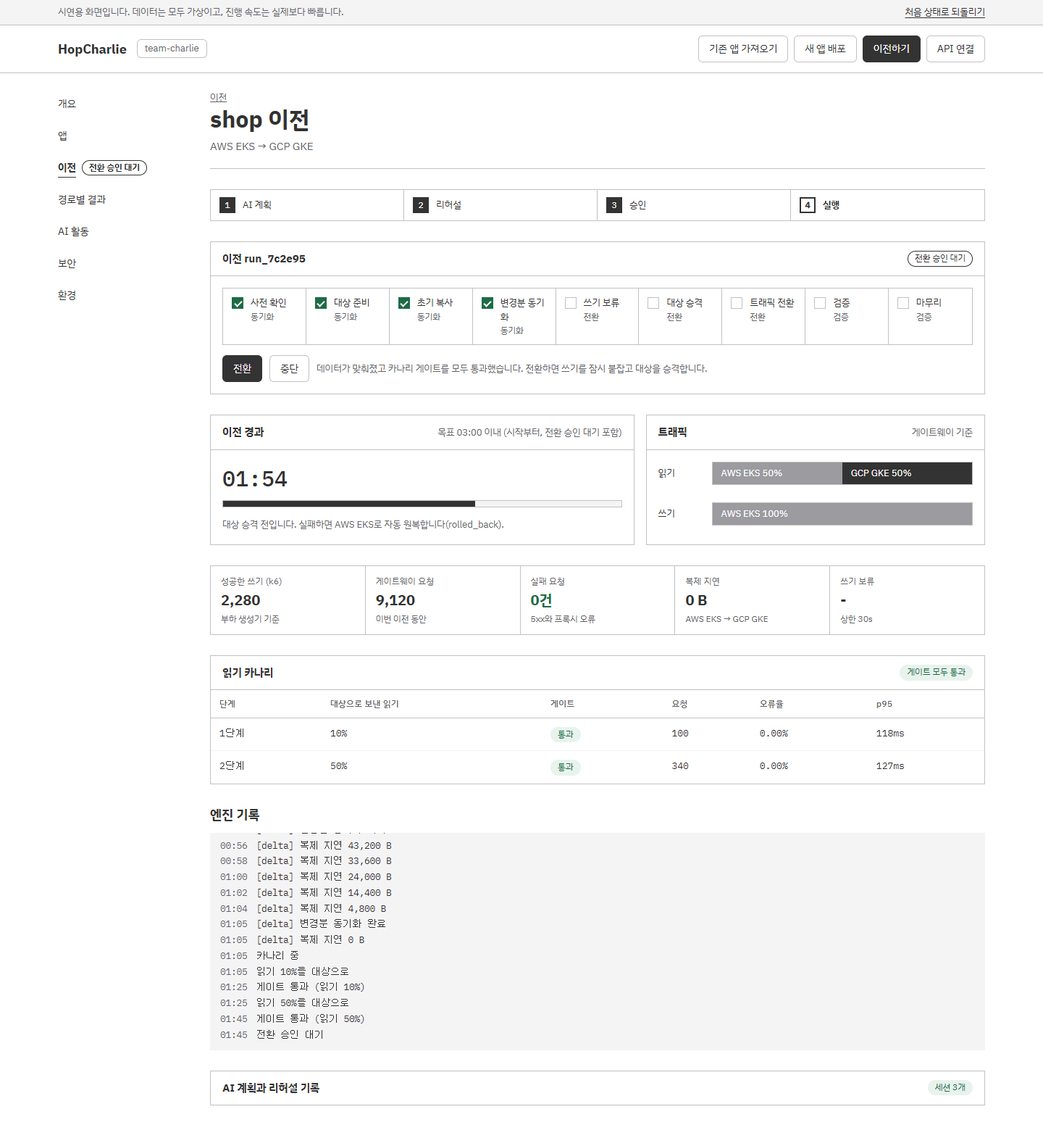
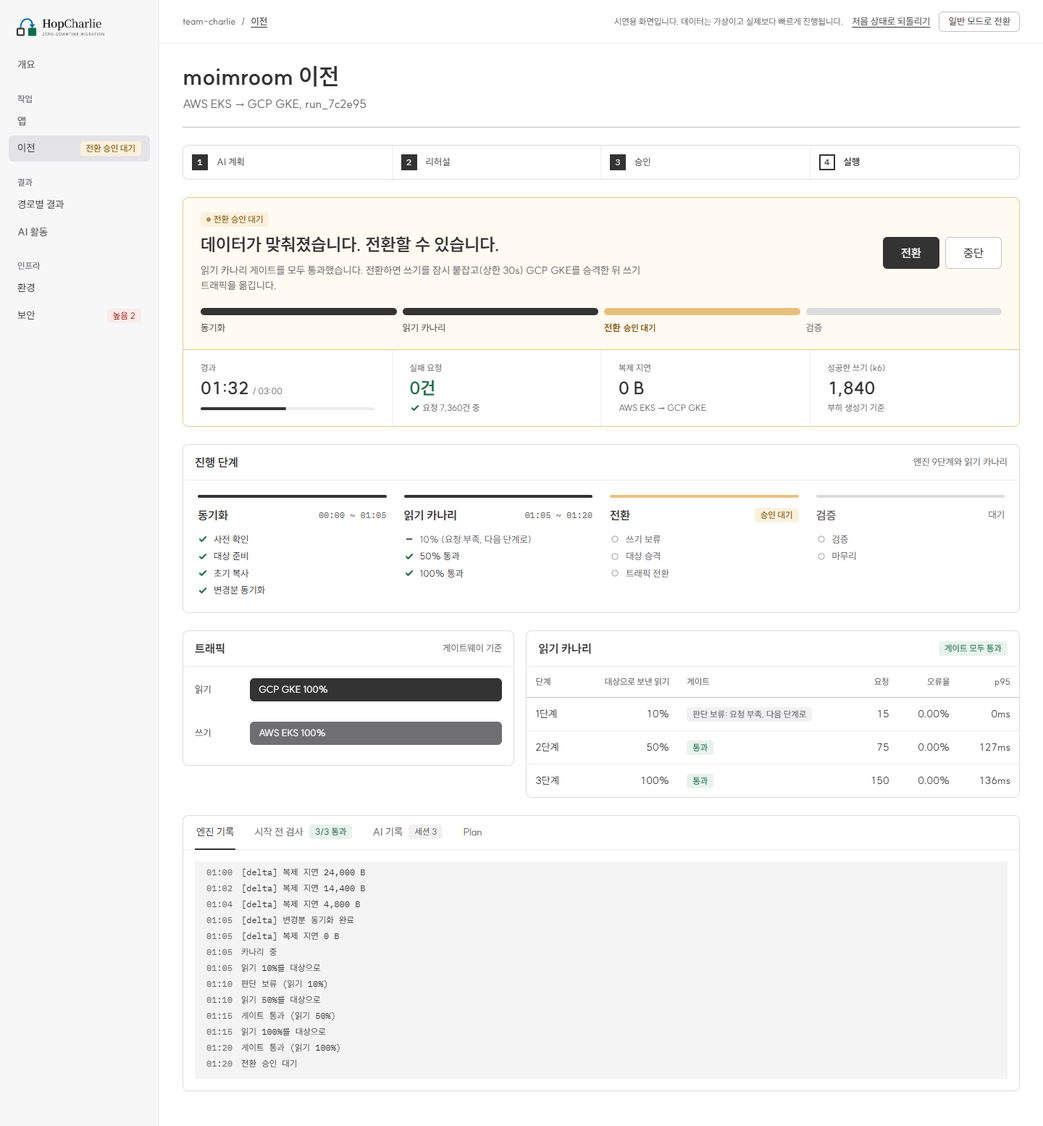
docs: README 화면과 버전 히스토리를 개편한 콘솔로 갱신 (v20~v29) (#30)
## 요약
콘솔 개편(#26~#29) 뒤의 문서 갱신입니다. 코드는 바꾸지 않았습니다.

## 바뀐 것
- **README 스크린샷**: `docs/screenshots/`의 22장을 지금 화면으로 다시 찍었습니다(데모 모드,
1440px, 전체 페이지).
  - 데모 샘플 앱이 moimroom으로 바뀌어서 `app-shop.png`는 `app-moimroom.png`로 바꿨습니다.
  - 앱 표에서 옛 화면(`docs/history/pr6/`)을 빌려 쓰던 4장은 지금 화면으로 새로 찍었습니다.
- **README 화면 설명**
  - "화면 구성"을 새로 넣었습니다: 사이드 메뉴 묶음, 메뉴 배지, 위쪽 막대, 작업 버튼 위치, 상태 색, 화면 너비.
  - 개요, 이전, 앱 상세(탭), 보안, 배포 진행 설명을 지금 화면에 맞췄습니다.
  - 맨 위에 SUIT 글꼴과 상태 색 규칙을 적었습니다.
- **README 구조와 배포 절**: 새 컴포넌트(Tabs, Skeleton, LoadError)와 화면별 스타일 파일, 광고
차단과 겹치는 클래스 이름 규칙, self-hosted runner를 더했습니다.
- **버전 히스토리**: README 표와 `docs/HISTORY.md`에 v20~v29(#20~#29)를 더했습니다. 화면이
바뀐 버전은 그 머지 커밋을 띄워 찍은 스크린샷을 `docs/history/pr<N>/`에 넣었습니다.

| 버전 | PR | 화면 |
| --- | --- | --- |
| v20 | #20 | 3장 |
| v21 | #21 | 변화 없음 |
| v22 | #22 | 1장 |
| v23 | #24 | 1장 |
| v24 | #25 | 변화 없음 |
| v25 | #23 | 실제 API만 |
| v26 | #26 | 2장 |
| v27 | #27 | 4장 |
| v28 | #28 | 2장 (넓은 화면 한 장은 2000px) |
| v29 | #29 | 변화 없음 |

## 확인
- 문서가 참조하는 이미지 경로가 모두 실제 파일이고, 새 이미지는 모두 참조됨
- 목차 링크가 GitHub 제목 규칙과 맞음

https://claude.ai/code/session_014QYzJihMxQwQggRBsrbjFt

diff --git a/README.md b/README.md
@@ -3,7 +3,8 @@
 HopCharlie 운영 콘솔입니다. 처음 열면 모드를 고릅니다. **일반 모드**는 관리자 아이디와 비밀번호로 로그인해 **실제 플랫폼 API**(`src/api`)를 읽고, **데모 모드**는 로그인 없이 **시연용 시뮬레이션**으로 같은 화면을 보여 줍니다. 모드는 화면 위쪽 버튼으로 언제든 바꿀 수 있고, 바꿔도 로그아웃되지 않습니다. 로그인은 새로고침하거나 새 탭을 열어도 세션이 끝날 때(12시간)까지 유지됩니다. `charlie login`이 보여 준 코드는 일반 모드의 **CLI 연결**(`#device`)에서 승인합니다. 시뮬레이션도 플랫폼 계약과 같은 데이터 모양(`PlanRecord`, `Run`, `RunEvent`, `AgentSession`, `AgentEvent`, `App`, `Deployment`, `DeploymentEvent`, `AppSpecValidation`)을 만듭니다.
 
 - 스택: Vite 8 + React 19 + TypeScript, 테스트는 Vitest + Testing Library
-- 디자인: SoftBank 디자인 시스템 토큰 (`src/styles/tokens.css`)
+- 디자인: SoftBank 디자인 시스템 토큰 (`src/styles/tokens.css`). 본문 글꼴은 SUIT, 코드와 ID는 IBM Plex Mono입니다.
+- 상태 색: 파랑(run)은 기계가 일하는 중, 주황(warn)은 사람이 해야 할 일, 회색은 기다림, 초록은 성공, 빨강은 실패입니다.
 
 ```bash
 npm install
@@ -37,26 +38,44 @@ npm run build      # 타입 검사 + 프로덕션 빌드
 | v17 | [#17](https://github.com/2026-Softbank-Hackathon-Charlie/frontend/pull/17) | 11/4 14:42 | 시작 전 검사의 대기 서버 설정 문장 (실제 API 모드에서만) |
 | v18 | [#18](https://github.com/2026-Softbank-Hackathon-Charlie/frontend/pull/18) | 11/4 16:01 | 승인 화면에서 전환 후 관찰과 자동 롤백 선택 (실제 API 모드에서만) |
 | v19 | [#19](https://github.com/2026-Softbank-Hackathon-Charlie/frontend/pull/19) | 11/4 16:12 | 데모 모드의 이전 대상을 moimroom으로 |
+| v20 | [#20](https://github.com/2026-Softbank-Hackathon-Charlie/frontend/pull/20) | 11/4 16:36 | 앱 시크릿 편집과 빌드 없는 재배포 |
+| v21 | [#21](https://github.com/2026-Softbank-Hackathon-Charlie/frontend/pull/21) | 11/4 16:40 | 버전 히스토리에 v8~v19 추가 (화면 변화 없음) |
+| v22 | [#22](https://github.com/2026-Softbank-Hackathon-Charlie/frontend/pull/22) | 11/4 16:56 | 읽기 카나리 7단계와 판단 보류 표시 |
+| v23 | [#24](https://github.com/2026-Softbank-Hackathon-Charlie/frontend/pull/24) | 11/4 17:35 | 읽기 카나리 기본값을 10%, 50%, 100%로 |
+| v24 | [#25](https://github.com/2026-Softbank-Hackathon-Charlie/frontend/pull/25) | 11/4 21:18 | 콘솔 게시를 self-hosted runner에서 (화면 변화 없음) |
+| v25 | [#23](https://github.com/2026-Softbank-Hackathon-Charlie/frontend/pull/23) | 11/4 21:46 | 이전 화면에 AI 실행기의 계획 세션 (실제 API 모드에서만) |
+| v26 | [#26](https://github.com/2026-Softbank-Hackathon-Charlie/frontend/pull/26) | 11/5 10:20 | 콘솔 개편 1단계: 묶음 사이드 메뉴, 상태 색, SUIT 글꼴 |
+| v27 | [#27](https://github.com/2026-Softbank-Hackathon-Charlie/frontend/pull/27) | 11/5 10:27 | 콘솔 개편 2단계: 이전 상태 카드, 앱 상세 탭, 개요 |
+| v28 | [#28](https://github.com/2026-Softbank-Hackathon-Charlie/frontend/pull/28) | 11/5 12:04 | 콘솔 마감 다듬기, 넓은 화면 정렬 |
+| v29 | [#29](https://github.com/2026-Softbank-Hackathon-Charlie/frontend/pull/29) | 11/5 12:09 | 광고 차단 확장이 앱 상세를 숨기지 않게 클래스 접두사 변경 (화면 변화 없음) |
 
 ## 화면
 
 ### 모드 선택, 로그인, CLI 연결
 처음 열면 전체 화면으로 모드를 고릅니다.
 
-- **데모 모드**: 가상 데이터로 시연합니다. 로그인하지 않습니다. 상단 배너의 "처음 상태로 되돌리기"로 시뮬레이션을 처음 상태로 돌립니다.
+- **데모 모드**: 가상 데이터로 시연합니다. 로그인하지 않습니다. 위쪽 막대의 "처음 상태로 되돌리기"로 시뮬레이션을 처음 상태로 돌립니다.
 - **일반 모드**: 실제 플랫폼 API를 읽습니다. 로그인 화면에서 관리자 아이디와 비밀번호(플랫폼 서버의 `PLATFORM_ADMINS`)를 넣습니다. 틀린 아이디나 비밀번호, 너무 잦은 시도(기다릴 초를 함께 표시), 관리자가 설정되지 않은 서버, 연결 실패를 각각 한국어로 알려 줍니다. 로그인 화면에서 데모 모드로 바로 갈 수도 있습니다.
-- **헤더**: 일반 모드에서는 로그인한 관리자 이름, "로그아웃", "데모 모드로 전환"이 있고, 데모 모드에서는 "일반 모드로 전환"이 있습니다. 모드를 바꿔도 로그아웃되지 않습니다.
-- **CLI 연결**(`#device`, 일반 모드에서만 메뉴에 보임): 터미널에서 `charlie login`을 실행하면 나오는 코드(XXXX-XXXX, 소문자나 공백을 섞어 넣어도 됨)를 입력하고 "확인"을 누르면 요청한 클라이언트, 요청 시각, 남은 시간이 나옵니다. 승인하기 전에 그 CLI에 줄 역할을 고릅니다. 기본으로 골라 둔 역할은 없고, 고르기 전에는 "승인"을 누를 수 없습니다.
+- **위쪽 막대**: 일반 모드에서는 연결한 API 주소, 로그인한 관리자 이름, "로그아웃", "데모 모드로 전환"이 있고, 데모 모드에서는 시연용 화면이라는 안내, "처음 상태로 되돌리기", "일반 모드로 전환"이 있습니다. 모드를 바꿔도 로그아웃되지 않습니다.
+- **CLI 연결**(`#device`, 일반 모드에서만 사이드 메뉴의 설정 묶음에 보임): 터미널에서 `charlie login`을 실행하면 나오는 코드(XXXX-XXXX, 소문자나 공백을 섞어 넣어도 됨)를 입력하고 "확인"을 누르면 요청한 클라이언트, 요청 시각, 남은 시간이 나옵니다. 승인하기 전에 그 CLI에 줄 역할을 고릅니다. 기본으로 골라 둔 역할은 없고, 고르기 전에는 "승인"을 누를 수 없습니다.
   - 관리자(operator): 배포, 앱 등록과 삭제, Plan 승인까지 모두
   - 조회와 Plan 제출(agent): 승인과 배포는 못 함
   - 조회만(viewer)
 
   봇(Rin 등)에게는 꼭 필요한 역할만 주고, 배포를 맡길 때만 관리자를 고릅니다. "승인"하면 그 CLI가 30일 동안 내 이름과 고른 역할로 동작하고, 결과에 준 역할을 보여 줍니다. "거절"하면 그 CLI 로그인은 끝납니다. 없거나 만료된 코드, 이미 승인하거나 거절한 요청(검토한 사람과, 승인이면 준 역할도 표시), CLI 토큰처럼 비밀번호로 로그인하지 않은 세션은 따로 알려 줍니다. 승인은 콘솔에 비밀번호로 로그인한 세션만 할 수 있어서 CLI 토큰으로 다른 토큰을 만들 수 없습니다. 로그인하지 않은 채 `#device`를 열면 로그인 화면이 먼저 나오고, 로그인하면 일반 모드로 이 화면에 돌아옵니다.
 
+### 화면 구성
+- **사이드 메뉴**: 왼쪽 회색 세로 메뉴입니다. 개요 아래에 작업(앱, 이전), 결과(경로별 결과, AI 활동), 인프라(환경, 보안) 묶음이 있고, 일반 모드에서는 설정(CLI 연결) 묶음이 더해집니다. 새 앱 배포, 기존 앱 가져오기, 앱 상세, 배포 진행은 앱 메뉴 아래 화면입니다.
+- **메뉴 배지**: 데모 모드에서는 메뉴에 지금 상태를 붙입니다. 배포나 가져오기가 진행 중이면 앱에 "진행 중", 이전이 진행 중이면 이전에 그 단계(예: 동기화 중, 전환 승인 대기), 보안에 높음 이상 건수가 나옵니다. 일반 모드는 API 호출을 늘리지 않으려고 배지를 두지 않습니다.
+- **위쪽 막대**: 왼쪽에 지금 위치(`team-charlie / 메뉴 이름`)가 있습니다. 앱 상세, 배포 진행, 이전 화면에서는 메뉴 이름을 눌러 그 메뉴로 돌아갑니다. 오른쪽에는 모드 안내와 계정이 있습니다.
+- **작업 버튼**: 화면 머리에 둡니다. 개요에는 "새 앱 배포"와 "이전하기", 앱 목록에는 "기존 앱 가져오기"와 "새 앱 배포"가 있습니다.
+- **상태 색**: 파랑은 기계가 일하는 중, 주황은 사람이 해야 할 일, 회색은 기다림, 초록은 성공, 빨강은 실패입니다. 칩, 메뉴 배지, 이전 화면의 상태 카드와 진행 막대가 같은 규칙을 따릅니다.
+- **화면 너비**: 900px보다 좁으면 사이드 메뉴가 위쪽 가로 메뉴로 바뀝니다. 넓은 화면에서는 위쪽 막대와 본문을 같은 가운데 열에 맞춥니다.
+
 아래는 데모 모드(시연용 시뮬레이션) 화면입니다. 숫자와 로그는 모두 가상입니다. (1440px 너비, 전체 페이지)
 
 ### 개요
-클러스터 3개의 상태, 6개 경로 결과표, 앱, 최근 활동을 한 화면에서 봅니다.
+맨 위 **지금 볼 것**은 사람을 기다리는 일, 문제, 진행 중인 일, 최근 24시간 안에 끝난 이전을 이 순서로 모으고, 항목마다 그 화면으로 가는 버튼을 둡니다. 그 아래에 클러스터 3개의 상태, 경로별 결과, 최근 활동, 앱 표가 있습니다. 경로별 결과는 원본(행)과 대상(열)의 3×3 격자이고, 일반 모드에서는 진행 중인 run도 그 칸에 보여 줍니다. 결과가 하나도 없으면 격자 대신 한 줄 안내가 나옵니다. 앱 표의 환경별 상태는 EKS, GKE, k3s 칩 3개로 보여 줍니다. 아래 화면은 가져오기와 이전을 한 번 마친 뒤입니다.
 
 ![개요](docs/screenshots/overview.png)
 
@@ -70,17 +89,17 @@ npm run build      # 타입 검사 + 프로덕션 빌드
 | ![샌드박스 테스트](docs/screenshots/onboard-3-sandbox.png) | ![첫 배포](docs/screenshots/onboard-4-done.png) |
 
 ### 이전
-> 아래 스크린샷은 데모 모드의 샘플 앱을 moimroom으로 바꾸기 전에 찍어서 이전 대상이 shop으로 나옵니다.
-
-**설정:** 원본은 앱이 지금 쓰기를 받는 클러스터이고, 옮겨 갈 클러스터를 고릅니다.
+**설정:** 원본은 앱이 지금 쓰기를 받는 클러스터이고, 옮겨 갈 클러스터를 고릅니다. 오른쪽에 진행 순서(AI 계획, 리허설, 승인, 시작 전 검사, 실행)가 있고, 단계별 자세한 설명은 접어 두었습니다. 설정 다음부터는 화면 위에 AI 계획, 리허설, 승인, 실행 네 단계가 표시됩니다.
 
 ![이전 설정](docs/screenshots/migrate-1-setup.png)
 
-**AI 계획 → 리허설 → 승인:** Plan(`PlanRecord`: revision, 원본·대상 엔드포인트, 첨부), AI 세션 3개(계획, 리허설, 진단)의 도구 호출 기록, 막힌 명령, AI 수정안(values diff, Plan 첨부로 올라가며 revision이 오름)을 보고 승인합니다. 승인은 화면에 보이는 revision으로 보냅니다.
+**AI 계획, 리허설, 승인:** 승인 화면은 왼쪽에 **AI가 바꾼 것**(values diff와 revision 변화)과 **확인한 것**(AI 계획, 리허설 결과, 막힌 명령, 시작 전 검사)을 먼저 보여 줍니다. Plan 상세(`PlanRecord`: 원본과 대상 엔드포인트, 첨부, 엔진 Plan 원문)와 AI 세션 기록(계획, 리허설, 진단 세션의 도구 호출)은 접어 두었습니다. AI 수정안은 Plan 첨부로 올라가며 revision이 오릅니다. 오른쪽 **승인 카드**에는 경로, 파일, 실행 방식, 전환, 원복 설명과 "승인하고 시작", "반려"가 있고, 일반 모드에서는 여기서 읽기 카나리 단계, 전환 후 관찰과 자동 롤백을 고릅니다. 승인은 화면에 보이는 revision으로 보냅니다.
 
 ![승인 대기](docs/screenshots/migrate-2-approve.png)
 
-**실행:** 엔진 9단계(사전 확인, 대상 준비, 초기 복사, 변경분 동기화 → 쓰기 보류, 대상 승격, 트래픽 전환 → 검증, 마무리)와 읽기 카나리(기본은 10%→50%→100%를 5초씩, 승인할 때 1%→10%→25%→50%→75%→90%→100%를 10초씩 하는 점진 카나리를 고를 수 있음. 단계마다 게이트, 요청이 모자란 단계는 판단 보류)를 보여 줍니다. 카나리는 플랫폼 게이트웨이(http)를 거치는 Plan에서만 합니다. 데이터가 맞으면 **전환 승인 대기**(`awaiting_switch`)에서 운영자가 전환을 누릅니다. 승인할 때 전환 후 관찰을 켰으면, 전환 뒤에도 정한 시간 동안 대상을 게이트로 판정하고 위반하면 기록하거나 자동 롤백합니다(실제 API 모드).
+**실행:** 맨 위 **상태 카드**에 지금 상태, 다음 행동(전환, 중단, 롤백, 이어서 실행), 핵심 숫자 4개(경과 시간, 실패 요청, 복제 지연, 성공한 쓰기)가 있습니다. 카드의 진행 막대는 동기화, 읽기 카나리, 전환, 검증 네 칸이고, 진행 중인 칸은 파랑, 전환 승인을 기다리는 칸은 주황입니다. 시작이나 롤백이 막히면 그 이유를 상태 카드 바로 아래에 보여 줍니다. 그 아래 **진행 단계**는 엔진 9단계(사전 확인, 대상 준비, 초기 복사, 변경분 동기화, 쓰기 보류, 대상 승격, 트래픽 전환, 검증, 마무리)를 같은 네 묶음으로 나눠 보여 주고, 트래픽(게이트웨이가 읽기와 쓰기를 보내는 곳)과 읽기 카나리 표가 이어집니다. 맨 아래 탭에서 엔진 기록, 시작 전 검사, AI 기록, Plan을 봅니다.
+
+읽기 카나리는 기본이 10%, 50%, 100%를 5초씩이고, 승인할 때 1%, 10%, 25%, 50%, 75%, 90%, 100%를 10초씩 하는 점진 카나리를 고를 수 있습니다. 단계마다 게이트를 확인하고, 요청이 모자란 단계는 판단 보류로 넘어갑니다. 카나리는 플랫폼 게이트웨이(http)를 거치는 Plan에서만 합니다. 데이터가 맞으면 **전환 승인 대기**(`awaiting_switch`)에서 운영자가 전환을 누릅니다. 승인할 때 전환 후 관찰을 켰으면, 전환 뒤에도 정한 시간 동안 대상을 게이트로 판정하고 위반하면 기록하거나 자동 롤백합니다(실제 API 모드).
 
 | 동기화 | 전환 승인 대기 (카나리 통과) |
 | --- | --- |
@@ -88,7 +107,7 @@ npm run build      # 타입 검사 + 프로덕션 빌드
 | **전환 중 (쓰기 보류, 승격)** | **이전 리포트** |
 | ![전환 중](docs/screenshots/migrate-5-cutover.png) | ![이전 리포트](docs/screenshots/migrate-6-report.png) |
 
-리포트는 `RunResult`(전체 시간, 쓰기 보류, 실패 요청, 누락 행·쓰기·파일, 검증)를 보여 주고, 성공한 이전은 **롤백**(1-click, 반대 방향의 새 run)할 수 있습니다.
+이전이 끝나면 상태 카드 바로 아래에 리포트가 옵니다. 리포트는 `RunResult`(전체 시간, 쓰기 보류, 실패 요청, 누락 행, 누락 쓰기, 누락 파일)를 목표와 비교하고, 구간별 시간 막대는 동기화, 읽기 카나리, 전환 승인 대기, 전환(쓰기 보류, 승격, 트래픽 전환), 검증과 마무리에 걸린 시간을 보여 줍니다. 사람이 기다린 시간은 주황입니다. 끝난 이전의 상태 카드에는 진행 막대가 없습니다. 성공한 이전은 상태 카드의 **롤백**(1-click, 반대 방향의 새 run)으로 되돌릴 수 있습니다.
 
 ### 경로별 결과
 EKS, GKE, k3s 사이 6개 방향의 결과표입니다.
@@ -96,7 +115,7 @@ EKS, GKE, k3s 사이 6개 방향의 결과표입니다.
 ![경로별 결과](docs/screenshots/routes.png)
 
 ### AI 활동, 보안
-**AI 활동**(`#agents`)은 에이전트 세션과 이벤트(도구 호출, 결과, 막힌 명령, 결정)를 모읍니다. **보안**(`#security`)은 환경별 보안 점검 결과입니다. 시뮬레이션의 보안 데이터는 `MOCK:` 고정값입니다.
+**AI 활동**(`#agents`)은 에이전트 세션과 이벤트(도구 호출, 결과, 막힌 명령, 결정)를 모읍니다. **보안**(`#security`)은 환경별 보안 점검 결과입니다. 맨 위 환경 × 분류 매트릭스의 칸을 누르면 아래 찾은 항목이 그 칸으로 걸러지고, 심각도 버튼으로도 거를 수 있습니다. 칸 읽는 법은 접어 두었습니다. 시뮬레이션의 보안 데이터는 `MOCK:` 고정값입니다.
 
 | AI 활동 | 보안 |
 | --- | --- |
@@ -106,29 +125,35 @@ EKS, GKE, k3s 사이 6개 방향의 결과표입니다.
 
 GitHub 레포로 앱을 등록하고 배포하는 화면입니다(ADR 0011).
 
-- **새 앱 배포**(`#new`): GitHub App이 볼 수 있는 레포, 브랜치(기본은 레포의 기본 브랜치), 배포 환경, push 자동 배포를 고릅니다. 고르는 대로 platform.yaml을 확인해서, 통과하면 서비스와 포트, 공개 주소(`https://<이름>.hopcharlie.dev`), 리소스를 보여 주고, 아니면 **직접 고쳐야 하는 항목**(위치, 내용, 고칠 방법)을 보여 줍니다. 플랫폼 기본값을 쓰는 항목도 따로 보여 줍니다. 레포에는 서비스마다 Dockerfile, 루트에 platform.yaml이 있어야 합니다.
-- **앱 목록**(`#apps`): 파일 앱(이전 대상)과 GitHub에서 등록한 앱을 함께 보여 줍니다. 등록한 앱에는 GitHub 표시, 환경별 상태, 공개 주소, 최근 배포가 붙습니다. 위의 전체, 정상, 문제 있음, 배포 중 칸을 누르면 그 상태로 거르고, 거른 목록은 주소(`#apps-healthy`, `#apps-problem`, `#apps-deploying`)로 공유할 수 있습니다.
-- **앱 상세**(`#app-<이름>`): 레포와 브랜치, 자동 배포, platform.yaml 요약, 환경별 상태(Argo CD sync와 health, 커밋, 주소), 배포 이력을 보여 줍니다. **다시 배포**는 브랜치의 head를 모든 환경에 배포하고, 인스턴스마다 있는 **재배포 (빌드 없이, 커밋 7자리)**는 그 인스턴스의 마지막 정상 배포를 같은 이미지와 지금 시크릿으로 다시 배포합니다(배포 이력의 트리거는 재배포). 그 인스턴스의 배포가 진행 중이면 끝날 때까지 버튼이 꺼집니다. **앱 삭제**는 화면 안에서 한 번 더 확인한 뒤 지웁니다. 이전 설정이 있는 앱은 이전 버튼이 그대로 있습니다.
-- **앱 상세의 시크릿**(ADR 0019): 앱 공통 시크릿과, 고른 인스턴스가 받는 시크릿(앱 공통에서 받은 것과 덮어쓴 것)을 표로 보여 줍니다. 표에는 이름, 바꾼 때, 바꾼 사람만 있고, 보기를 누른 값만 서버에서 불러와 보여 줍니다. 다시 누르거나 페이지를 떠나거나 60초가 지나면 값을 지웁니다. 추가, 수정, 삭제, 덮어쓰기, 덮어쓰기 지우기는 저장하지 않은 변경으로 모았다가 범위마다 저장 한 번으로 보내고, 취소로 버릴 수 있습니다. 저장한 뒤에는 실행 중인 인스턴스가 이전 값을 쓴다고 알리고 인스턴스별 재배포와 모든 인스턴스 재배포 버튼을 보여 줍니다. operator가 아닌 토큰은 이름만 봅니다. 데모 모드에서는 todo-api의 가짜 시크릿으로 같은 흐름을 보여 줍니다.
-- **배포 진행**(`#deploy-<id>`): 단계(대기열, 이미지 빌드, gitops 커밋, Argo CD 동기화, 그리고 정상, 실패, 대체됨)와 단계 번호(예: 2/4 빌드), 환경별 상태, 실시간 빌드 로그(자동 스크롤, 멈춤 가능), 배포를 만든 때부터 끝날 때까지의 경과 시간(목표 5분)을 보여 줍니다. 성공하면 공개 주소를 누를 수 있고, 실패하면 로그 위에 한 줄 요약을 띄우고 첫 오류 줄로 스크롤해서 표시합니다.
+- **새 앱 배포**(`#new`): GitHub App이 볼 수 있는 레포, 브랜치(기본은 레포의 기본 브랜치), 배포 환경, push 자동 배포를 고릅니다. 고르는 대로 platform.yaml을 확인해서, 통과하면 서비스와 포트, 공개 주소(`https://<이름>.hopcharlie.dev`), 리소스를 보여 주고, 아니면 바로 배포할 수 없다는 안내와 **직접 고쳐야 하는 항목**(위치, 내용, 고칠 방법)을 보여 줍니다. 플랫폼 기본값을 쓰는 항목도 따로 보여 줍니다. 레포에는 서비스마다 Dockerfile, 루트에 platform.yaml이 있어야 합니다.
+- **앱 목록**(`#apps`): 파일 앱(이전 대상)과 GitHub에서 등록한 앱을 함께 보여 줍니다. 등록한 앱에는 GitHub 표시, 공개 주소, 최근 배포가 붙습니다. 환경별 상태는 EKS, GKE, k3s 칩과 그 아래 범례로 보여 주고, 파일 앱은 상태를 몰라서 회색입니다. 위의 전체, 정상, 문제 있음, 배포 중 칸을 누르면 그 상태로 거르고, 거른 목록은 주소(`#apps-healthy`, `#apps-problem`, `#apps-deploying`)로 공유할 수 있습니다.
+- **앱 상세**(`#app-<이름>`): 화면 머리에 레포, 기본 브랜치, 공개 주소와 **기본 브랜치 다시 배포** 버튼, 더 보기 메뉴가 있고, 그 아래 띠에 기본 인스턴스의 환경별 상태(Argo CD sync와 health, 커밋)가 있습니다. 내용은 탭 네 개로 나눴고(`#app-<이름>/instances`, `/secrets`, `/deploys`), 같은 앱 안에서 탭을 바꿔도 스크롤과 입력 중인 내용은 남습니다.
+  - **개요**: 최근 배포, 기본 인스턴스의 platform.yaml 요약, 배포 설정(기본 브랜치, 자동 배포, 공개 주소, 등록), 시크릿 요약
+  - **인스턴스**: 브랜치별 인스턴스 표(브랜치, 주소, 환경별 상태, 최근 배포, 자동 배포, 배포 버튼). 브랜치 추가 폼은 **브랜치 추가**를 눌러야 열립니다.
+  - **시크릿**: 아래 시크릿 설명
+  - **배포 이력**: 배포마다 브랜치, 상태, 트리거, 커밋, 환경, 시작 시각, 걸린 시간
+
+  **기본 브랜치 다시 배포**는 기본 브랜치의 head를 모든 환경에 배포하고, 인스턴스마다 있는 **재배포 (빌드 없이, 커밋 7자리)**는 그 인스턴스의 마지막 정상 배포를 같은 이미지와 지금 시크릿으로 다시 배포합니다(배포 이력의 트리거는 재배포). 그 인스턴스의 배포가 진행 중이면 끝날 때까지 버튼이 꺼집니다. **앱 삭제**는 더 보기 메뉴에 있고, 화면 안에서 한 번 더 확인한 뒤 지웁니다. 파일 앱(이전 대상)은 실행 위치, 리소스, 변경 이력과 이전 버튼을 보여 줍니다.
+- **앱 상세의 시크릿**(ADR 0019): 앱 공통 시크릿과, 고른 인스턴스가 받는 시크릿(앱 공통에서 받은 것과 덮어쓴 것)을 표로 보여 줍니다. 표에는 이름, 바꾼 때, 바꾼 사람만 있고, 보기를 누른 값만 서버에서 불러와 보여 줍니다. 다시 누르거나 페이지를 떠나거나 60초가 지나면 값을 지웁니다. 시크릿 추가와 덮어쓰기 추가 폼은 그 버튼을 눌러야 열립니다. 추가, 수정, 삭제, 덮어쓰기, 덮어쓰기 지우기는 저장하지 않은 변경으로 모았다가 범위마다 저장 한 번으로 보내고, 취소로 버릴 수 있습니다. 저장한 뒤에는 실행 중인 인스턴스가 이전 값을 쓴다고 알리고 인스턴스별 재배포와 모든 인스턴스 재배포 버튼을 보여 줍니다. operator가 아닌 토큰은 이름만 봅니다. 데모 모드에서는 todo-api의 가짜 시크릿으로 같은 흐름을 보여 줍니다.
+- **배포 진행**(`#deploy-<id>`): 단계(대기열, 이미지 빌드, gitops 커밋, Argo CD 동기화, 그리고 정상, 실패, 대체됨)와 단계 번호(예: 2/4 빌드), 환경별 상태, 실시간 빌드 로그(자동 스크롤, 멈춤 가능), 배포를 만든 때부터 끝날 때까지의 경과 시간(목표 5분)을 보여 줍니다. 끝나면 맨 위에 결과 카드가 나옵니다. 성공하면 공개 주소를 누를 수 있고, 실패하면 실패한 단계와 오류를 보여 주며 로그 위에 한 줄 요약을 띄우고 첫 오류 줄로 스크롤해서 표시합니다.
 - 시뮬레이션 레포: `notice-board`(바로 배포 가능, `dev` 브랜치는 빌드 실패), `photo-album`(`main`은 규칙 위반, `fix-worker`는 통과), `analytics-worker`(platform.yaml 없음). `todo-api`는 처음부터 등록되어 있습니다.
 
 | 앱 목록 | 새 앱 배포 |
 | --- | --- |
 | ![앱](docs/screenshots/apps.png) | ![새 앱 배포](docs/screenshots/new-app.png) |
 | **새 앱 배포: 규칙 위반 (photo-album)** | **새 앱 배포: platform.yaml 없음 (analytics-worker)** |
-| ![규칙 위반](docs/history/pr6/04-new-app-2-rule-violation.png) | ![platform.yaml 없음](docs/history/pr6/05-new-app-3-no-platform-yaml.png) |
+| ![규칙 위반](docs/screenshots/new-app-rule-violation.png) | ![platform.yaml 없음](docs/screenshots/new-app-no-platform-yaml.png) |
 | **배포 진행 (진행 중, 2/4 빌드)** | **앱 목록: 문제 있음 필터** |
-| ![배포 진행 중](docs/history/pr6/06-deploy-1-in-progress.png) | ![문제 있음](docs/history/pr6/10-apps-filter-problem.png) |
-| **앱 상세 (todo-api, GitHub에서 등록)** | **앱 상세 (이전 대상, 샘플 앱을 moimroom으로 바꾸기 전 화면)** |
-| ![todo-api](docs/screenshots/app-todo-api.png) | ![shop](docs/screenshots/app-shop.png) |
-| **배포 진행 (완료)** | **배포 진행 (빌드 실패)** |
+| ![배포 진행 중](docs/screenshots/deploy-in-progress.png) | ![문제 있음](docs/screenshots/apps-problem.png) |
+| **앱 상세 (todo-api, GitHub에서 등록, 개요 탭)** | **앱 상세 (이전 대상 moimroom, GKE로 이전한 뒤)** |
+| ![todo-api](docs/screenshots/app-todo-api.png) | ![moimroom](docs/screenshots/app-moimroom.png) |
+| **배포 진행 (완료)** | **배포 진행 (빌드 실패, `dev` 브랜치)** |
 | ![배포 완료](docs/screenshots/deploy.png) | ![빌드 실패](docs/screenshots/deploy-failed.png) |
 | **환경** | |
 | ![환경](docs/screenshots/envs.png) | |
 
 ### 디자인 시스템 (`#design-system`)
-메뉴에는 없는 화면입니다. 주소창에 `#design-system`을 붙여서 엽니다. 색(대비 포함), 글꼴, 간격과 모서리, 상태 표현, 컴포넌트, 움직임을 화면과 같은 토큰과 클래스로 보여줍니다.
+메뉴에는 없는 화면입니다. 주소창에 `#design-system`을 붙여서 엽니다. 원칙, 로고, 색(대비 포함), 글꼴, 간격과 모서리, 상태 표현, 컴포넌트, 움직임을 화면과 같은 토큰과 클래스로 보여줍니다.
 
 ![디자인 시스템](docs/screenshots/design-system.png)
 
@@ -139,9 +164,9 @@ GitHub 레포로 앱을 등록하고 배포하는 화면입니다(ADR 0011).
 ## 실제 API에 연결하기
 
 1. 프로젝트 루트에 `.env.local`을 만들고 `VITE_PLATFORM_URL=<플랫폼 주소>`를 적은 뒤 `npm run dev`를 다시 시작합니다 (자세한 내용은 `src/api/README.md`).
-2. 처음 화면에서 **일반 모드**를 고르거나, 데모 모드 헤더의 **일반 모드로 전환**을 누릅니다.
+2. 처음 화면에서 **일반 모드**를 고르거나, 데모 모드 위쪽 막대의 **일반 모드로 전환**을 누릅니다.
 3. 로그인 화면에서 관리자 아이디와 비밀번호를 넣습니다. 관리자 세션의 역할은 operator라서 승인, 시작, 전환, 중단, 롤백, 앱 등록, 다시 배포, 앱 삭제를 모두 할 수 있습니다.
-4. 로그인하면 상단 배너가 바뀌고 개요, 앱, 새 앱 배포, 배포 진행, 이전, 경로별 결과, AI 활동, 보안, 환경, CLI 연결 화면이 API를 읽습니다. 기존 앱 가져오기는 아직 시연 화면입니다.
+4. 로그인하면 위쪽 막대의 안내가 바뀌고 개요, 앱, 새 앱 배포, 배포 진행, 이전, 경로별 결과, AI 활동, 보안, 환경, CLI 연결 화면이 API를 읽습니다. 기존 앱 가져오기는 아직 시연 화면입니다.
 
 로그인 세션(토큰, 만료 시각, 관리자 이름)은 localStorage `hopcharlie.session`에, 고른 모드는 `hopcharlie.mode`에 둡니다. 새로고침하거나 새 탭을 열어도 세션이 끝날 때(12시간)까지 로그인이 유지되고, 한 탭에서 로그인하거나 로그아웃하면 다른 탭도 따라갑니다. 모드는 탭마다 따로입니다. 세션이 만료되거나 서버가 401로 답하면 "세션이 만료되었습니다. 다시 로그인하세요"와 함께 로그인 화면으로 돌아갑니다. 로그아웃은 서버에서 세션을 끝내고(`POST /v1/auth/logout`), 서버에 닿지 않아도 이 브라우저에서는 바로 로그아웃합니다. 화면과 로그에는 토큰을 보여 주지 않습니다.
 
@@ -175,14 +200,17 @@ src/sim/deploy.ts   계약 모양으로 만드는 GitHub 앱 배포 시뮬레이
 src/sim/secrets.ts  앱 시크릿 시뮬레이션과 서버의 이름, 값 규칙
 src/sim/state.ts    시뮬레이션 상태 머신 (배포, 가져오기, 이전)
 src/sim/store.tsx   100ms 틱, React 구독
-src/router.ts       해시 라우팅 (#overview, #apps, #apps-<상태>, #app-<id>, #deploy-<id>, #new, #onboard, #migrate, #migrate-app, #routes, #agents, #security, #envs, #device, #design-system)
+src/router.ts       해시 라우팅 (#overview, #apps, #apps-<상태>, #app-<id>, #app-<id>/instances|secrets|deploys, #deploy-<id>, #new, #onboard, #migrate, #migrate-app, #routes, #agents, #security, #envs, #device, #design-system)
 src/pages/          화면 (실제 API 모드와 시뮬레이션 모드를 각각 감싸고, 그리는 코드는 하나). Entry.tsx는 모드 선택과 로그인, Device.tsx는 CLI 연결
-src/components/     공통 UI (Chip, Ind, LogBox, Table, PageHead, AI 세션 표, 배포 화면 조각)
+src/components/     공통 UI (Chip, Tabs, Skeleton, LoadError, Ind, LogBox, Table, PageHead, AI 세션 표, 배포 화면 조각, 시크릿)
+src/styles/         tokens.css(색, 간격, 글자 토큰과 SUIT @font-face), app.css(공통), motion.css(움직임), 화면별 migrate.css, overview.css, app-detail.css
 ```
+
+화면별 CSS는 그 화면 파일이 불러오고, main.tsx가 공통 CSS를 먼저 불러오므로 같은 우선순위에서는 화면별 규칙이 이깁니다. 클래스 이름에는 `ad-`, `ads`, `banner`, `sponsor`, `promo`를 쓰지 않습니다. 광고 차단 확장이 그런 이름의 요소를 숨깁니다(v29).
 
 ## 배포 (GitHub Actions)
 
-[Deploy frontend](.github/workflows/deploy.yml)은 **main에 push할 때마다** 자동으로 실행됩니다. Actions의 Run workflow로 main을 다시 게시할 수도 있습니다. 연달아 push하면 진행 중인 이전 실행을 취소하므로 마지막 커밋만 게시됩니다. PR에서는 실행하지 않습니다.
+[Deploy frontend](.github/workflows/deploy.yml)은 **main에 push할 때마다** 자동으로 실행됩니다. 실행은 조직의 self-hosted runner(`[self-hosted, hopcharlie]`)에서 합니다(v24). Actions의 Run workflow로 main을 다시 게시할 수도 있습니다. 연달아 push하면 진행 중인 이전 실행을 취소하므로 마지막 커밋만 게시됩니다. PR에서는 실행하지 않습니다.
 
 Node 24에서 `npm ci`, GitOps helper 시험, `npm test`, `npm run build`를 통과하면 기존 플랫폼과 같은 Caddy 이미지로 빌드합니다. ECR에 frontend 커밋의 **7자리 SHA 태그** 하나를 게시하고, 빌드 결과의 digest로 infra의 다음 두 파일을 바꾸는 커밋 하나를 **infra main에 바로** 넣습니다(infra ADR 0025). 그사이 infra main이 바뀌면 새 main을 다시 읽어 커밋을 다시 만듭니다.
 
